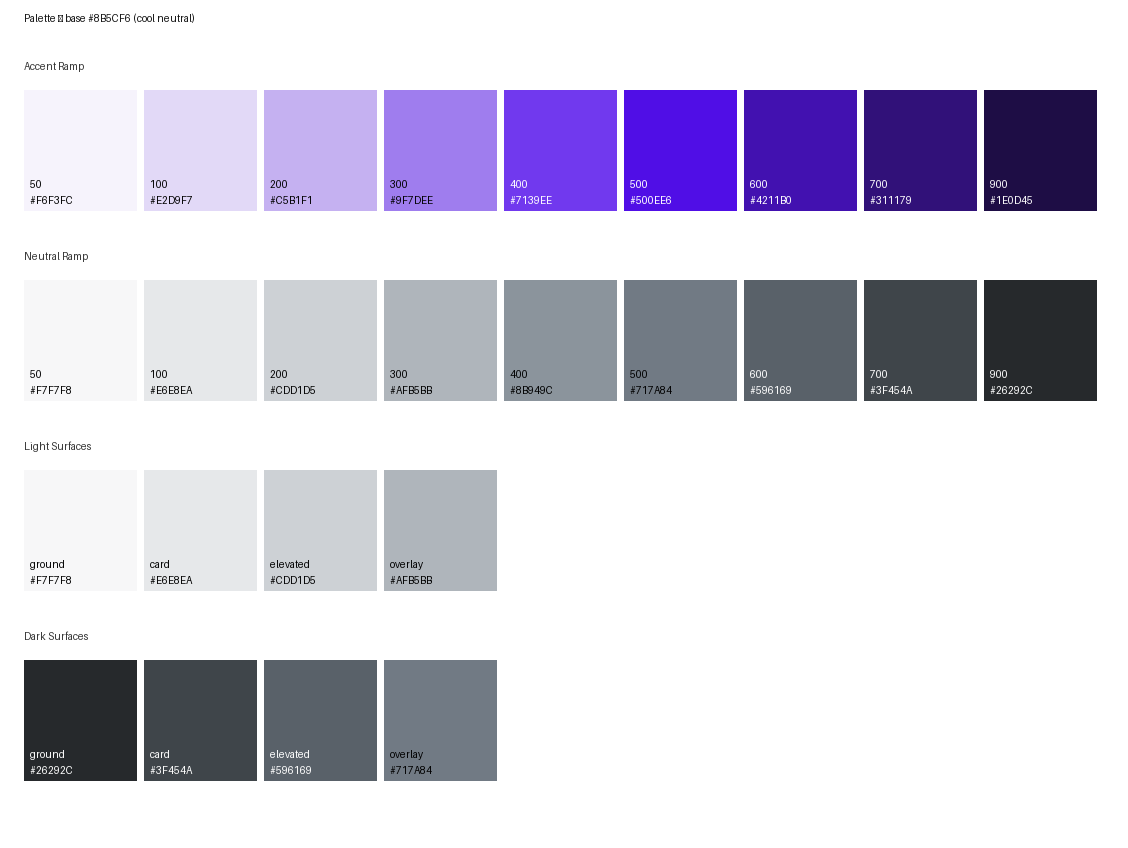
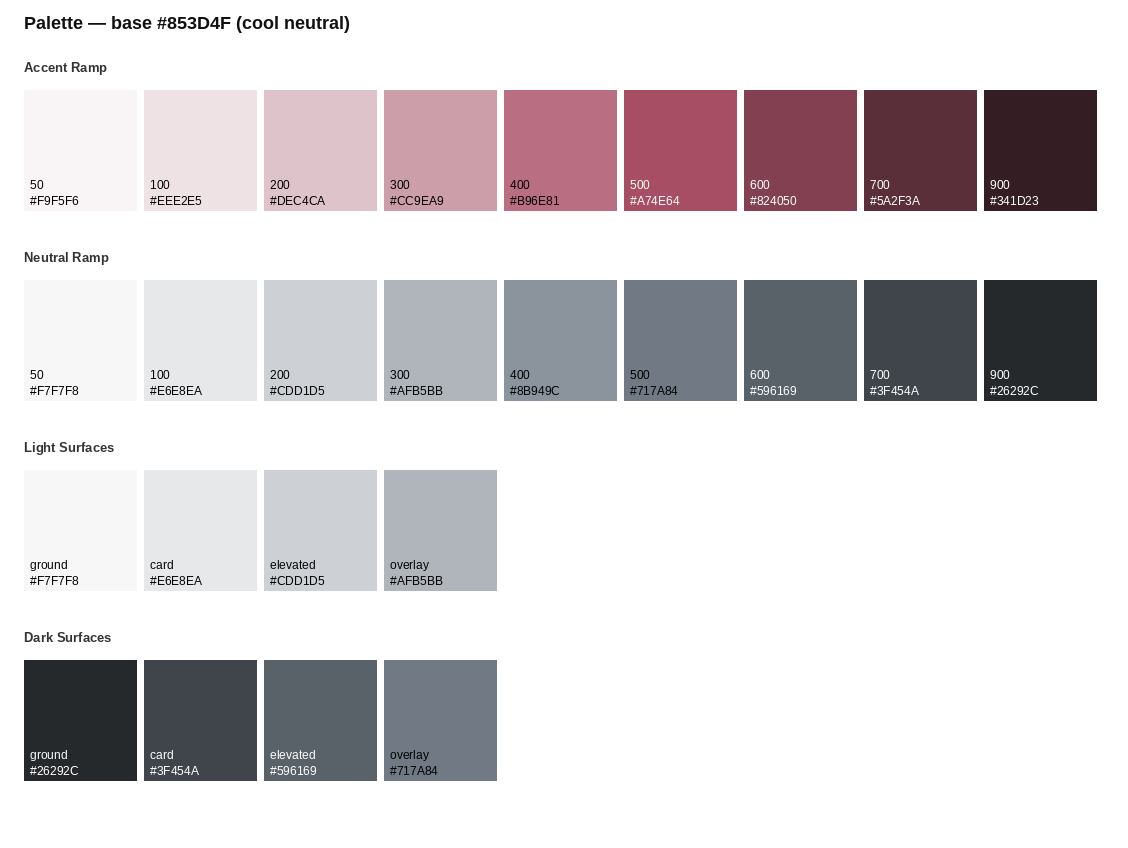
fix: address review round 1 findings

diff --git a/scripts/generate_theme.py b/scripts/generate_theme.py
@@ -1,0 +1,163 @@
+#!/usr/bin/env python3
+"""Script to regenerate theme.py from design-system/palette.json."""
+
+import json
+from pathlib import Path
+
+
+def main():
+    root = Path(__file__).parent.parent
+    palette_path = root / "design-system" / "palette.json"
+    theme_path = root / "eyegen" / "gui" / "style" / "theme.py"
+
+    if not palette_path.exists():
+        print(f"Error: {palette_path} does not exist.")  # noqa: T201
+        exit(1)
+
+    with open(palette_path, "r") as f:
+        palette = json.load(f)
+
+    accent = palette["accent_ramp"]
+    neutral = palette["neutral_ramp"]
+    text_contrast = palette["text_contrast"]
+
+    theme_content = f"""\"\"\"Design tokens and theme loader for EyeGen GUI themes.
+
+Automatically generated from design-system/palette.json. Do not edit manually.
+\"\"\"
+
+from pathlib import Path
+
+_DARK = {{
+    "bg": "{neutral["900"]}",
+    "surface": "{neutral["700"]}",
+    "surface-hover": "#5A534C",
+    "card": "#36312C",
+    "border": "{neutral["700"]}",
+    "border-light": "{neutral["600"]}",
+    "text-primary": "{text_contrast["ground"]["recommended_text"]}",
+    "text-secondary": "{neutral["300"]}",
+    "text-muted": "#A8A098",
+    "accent": "{accent["600"]}",
+    "accent-hover": "{accent["400"]}",
+    "accent-light": "{accent["200"]}",
+    "success": "#10B981",
+    "warning": "#F59E0B",
+    "danger": "#EF4444",
+    "input-bg": "#1E1C1A",
+    "input-border": "{neutral["700"]}",
+    "input-focus": "{accent["600"]}",
+    "slider-handle": "{accent["600"]}",
+    "slider-track": "{neutral["700"]}",
+    "preview-bg": "#1A1816",
+    "preview-gradient-start": "{accent["700"]}",
+    "preview-gradient-end": "{neutral["900"]}",
+    "shadow": "rgba(0,0,0,0.5)",
+    "radius-sm": "6px",
+    "radius-md": "10px",
+    "radius-lg": "14px",
+    "radius-xl": "20px",
+    "font-size-sm": "11px",
+    "font-size-md": "13px",
+    "font-size-lg": "16px",
+    "font-size-xl": "20px",
+    "font-size-2xl": "24px",
+    "spacing-xs": "8px",
+    "spacing-sm": "8px",
+    "spacing-md": "16px",
+    "spacing-lg": "16px",
+    "spacing-xl": "24px",
+}}
+
+_LIGHT = {{
+    "bg": "{neutral["50"]}",
+    "surface": "{neutral["100"]}",
+    "surface-hover": "{accent["100"]}",
+    "card": "#FFFFFF",
+    "border": "{neutral["200"]}",
+    "border-light": "{neutral["100"]}",
+    "text-primary": "{accent["900"]}",
+    "text-secondary": "{neutral["600"]}",
+    "text-muted": "#756962",
+    "accent": "{accent["600"]}",
+    "accent-hover": "{accent["500"]}",
+    "success": "#059669",
+    "warning": "#D97706",
+    "danger": "#DC2626",
+    "input-bg": "#FFFFFF",
+    "input-border": "{neutral["200"]}",
+    "input-focus": "{accent["600"]}",
+    "slider-handle": "{accent["600"]}",
+    "slider-track": "{neutral["200"]}",
+    "preview-bg": "#F2EDE6",
+    "preview-gradient-start": "{accent["200"]}",
+    "preview-gradient-end": "{neutral["50"]}",
+    "shadow": "rgba(0,0,0,0.06)",
+    "radius-sm": "6px",
+    "radius-md": "10px",
+    "radius-lg": "14px",
+    "radius-xl": "20px",
+    "font-size-sm": "11px",
+    "font-size-md": "13px",
+    "font-size-lg": "16px",
+    "font-size-xl": "20px",
+    "font-size-2xl": "24px",
+    "spacing-xs": "8px",
+    "spacing-sm": "8px",
+    "spacing-md": "16px",
+    "spacing-lg": "16px",
+    "spacing-xl": "24px",
+}}
+
+
+class LazyThemeDict(dict):
+    def __init__(self):
+        super().__init__()
+        self._cache = {{}}
+
+    def __getitem__(self, key: str) -> str:
+        if key not in self._cache:
+            if key in ("dark", "light"):
+                self._cache[key] = _load_qss(f"{{key}}.qss")
+            else:
+                raise KeyError(key)
+        return self._cache[key]
+
+    def get(self, key, default=None):
+        try:
+            return self[key]
+        except KeyError:
+            return default
+
+    def __contains__(self, key) -> bool:
+        return key in ("dark", "light")
+
+
+def _load_qss(name: str) -> str:
+    p = Path(__file__).parent / name
+    if not p.exists():
+        raise FileNotFoundError(
+            f"Required stylesheet '{{name}}' is missing in '{{p.parent}}'. "
+            "Please ensure the application is correctly installed and all assets are present."
+        )
+    return p.read_text()
+
+
+ALL_THEMES = LazyThemeDict()
+
+
+def __getattr__(name: str):
+    if name == "DARK_QSS":
+        return ALL_THEMES["dark"]
+    if name == "LIGHT_QSS":
+        return ALL_THEMES["light"]
+    raise AttributeError(f"module {{__name__!r}} has no attribute {{name!r}}")
+"""
+
+    with open(theme_path, "w") as f:
+        f.write(theme_content)
+    print(f"Regenerated {theme_path} successfully.")  # noqa: T201
+
+
+if __name__ == "__main__":
+    main()

diff --git a/tests/test_validation.py b/tests/test_validation.py
@@ -131,3 +131,63 @@ def test_validate_safe_path_rejects_private_var():
 
     with pytest.raises(ValueError, match="not under any expected root"):
         validate_safe_path("/private/var/log", "private_var_log")
+
+
+def test_theme_py_is_synchronized():  # noqa: PLR0915
+    """Verify that theme.py is up-to-date with design-system/palette.json."""
+    import json
+    from pathlib import Path
+
+    root = Path(__file__).parent.parent
+    palette_path = root / "design-system" / "palette.json"
+    theme_path = root / "eyegen" / "gui" / "style" / "theme.py"
+
+    assert palette_path.exists(), "design-system/palette.json must exist"
+    assert theme_path.exists(), "theme.py must exist"
+
+    # Execute theme.py in a clean namespace to avoid importing PySide6
+    namespace = {}
+    exec(theme_path.read_text(), namespace)  # noqa: S102
+    _DARK = namespace["_DARK"]
+    _LIGHT = namespace["_LIGHT"]
+
+    with open(palette_path, "r") as f:
+        palette = json.load(f)
+
+    accent = palette["accent_ramp"]
+    neutral = palette["neutral_ramp"]
+    text_contrast = palette["text_contrast"]
+
+    # Verify key tokens in _DARK
+    assert _DARK["bg"] == neutral["900"]
+    assert _DARK["surface"] == neutral["700"]
+    assert _DARK["border"] == neutral["700"]
+    assert _DARK["border-light"] == neutral["600"]
+    assert _DARK["text-primary"] == text_contrast["ground"]["recommended_text"]
+    assert _DARK["text-secondary"] == neutral["300"]
+    assert _DARK["accent"] == accent["600"]
+    assert _DARK["accent-hover"] == accent["400"]
+    assert _DARK["accent-light"] == accent["200"]
+    assert _DARK["input-border"] == neutral["700"]
+    assert _DARK["input-focus"] == accent["600"]
+    assert _DARK["slider-handle"] == accent["600"]
+    assert _DARK["slider-track"] == neutral["700"]
+    assert _DARK["preview-gradient-start"] == accent["700"]
+    assert _DARK["preview-gradient-end"] == neutral["900"]
+
+    # Verify key tokens in _LIGHT
+    assert _LIGHT["bg"] == neutral["50"]
+    assert _LIGHT["surface"] == neutral["100"]
+    assert _LIGHT["surface-hover"] == accent["100"]
+    assert _LIGHT["border"] == neutral["200"]
+    assert _LIGHT["border-light"] == neutral["100"]
+    assert _LIGHT["text-primary"] == accent["900"]
+    assert _LIGHT["text-secondary"] == neutral["600"]
+    assert _LIGHT["accent"] == accent["600"]
+    assert _LIGHT["accent-hover"] == accent["500"]
+    assert _LIGHT["input-border"] == neutral["200"]
+    assert _LIGHT["input-focus"] == accent["600"]
+    assert _LIGHT["slider-handle"] == accent["600"]
+    assert _LIGHT["slider-track"] == neutral["200"]
+    assert _LIGHT["preview-gradient-start"] == accent["200"]
+    assert _LIGHT["preview-gradient-end"] == neutral["50"]

diff --git a/eyegen/gui/style/theme.py b/eyegen/gui/style/theme.py
@@ -1,4 +1,7 @@
-"""Design tokens and theme loader for EyeGen GUI themes."""
+"""Design tokens and theme loader for EyeGen GUI themes.
+
+Automatically generated from design-system/palette.json. Do not edit manually.
+"""
 
 from pathlib import Path
 
@@ -84,12 +87,45 @@ _LIGHT = {
 }
 
 
+class LazyThemeDict(dict):
+    def __init__(self):
+        super().__init__()
+        self._cache = {}
+
+    def __getitem__(self, key: str) -> str:
+        if key not in self._cache:
+            if key in ("dark", "light"):
+                self._cache[key] = _load_qss(f"{key}.qss")
+            else:
+                raise KeyError(key)
+        return self._cache[key]
+
+    def get(self, key, default=None):
+        try:
+            return self[key]
+        except KeyError:
+            return default
+
+    def __contains__(self, key) -> bool:
+        return key in ("dark", "light")
+
+
 def _load_qss(name: str) -> str:
     p = Path(__file__).parent / name
+    if not p.exists():
+        raise FileNotFoundError(
+            f"Required stylesheet '{name}' is missing in '{p.parent}'. "
+            "Please ensure the application is correctly installed and all assets are present."
+        )
     return p.read_text()
 
 
-DARK_QSS = _load_qss("dark.qss")
-LIGHT_QSS = _load_qss("light.qss")
+ALL_THEMES = LazyThemeDict()
 
-ALL_THEMES = {"dark": DARK_QSS, "light": LIGHT_QSS}
+
+def __getattr__(name: str):
+    if name == "DARK_QSS":
+        return ALL_THEMES["dark"]
+    if name == "LIGHT_QSS":
+        return ALL_THEMES["light"]
+    raise AttributeError(f"module {__name__!r} has no attribute {name!r}")

diff --git a/eyegen/backends/__init__.py b/eyegen/backends/__init__.py
@@ -39,9 +39,8 @@ def _is_coreml_model(model: str, config: Optional[EyeGenConfig] = None) -> bool:
         "sdxl-ios",
     }:
         return True
-    if (
-        m.startswith("apple/coreml-stable-diffusion")
-        or m.startswith("apple-coreml-stable-diffusion")
+    if m.startswith("apple/coreml-stable-diffusion") or m.startswith(
+        "apple-coreml-stable-diffusion"
     ):
         return True
     return False

diff --git a/tests/test_config.py b/tests/test_config.py
@@ -168,4 +168,3 @@ def test_config_model_name_normalization():
     assert cfg4.model == "some/other"
     cfg4.model = "apple/coreml-stable-diffusion-v1-5"
     assert cfg4.model == "apple-coreml-stable-diffusion-v1-5"
-
